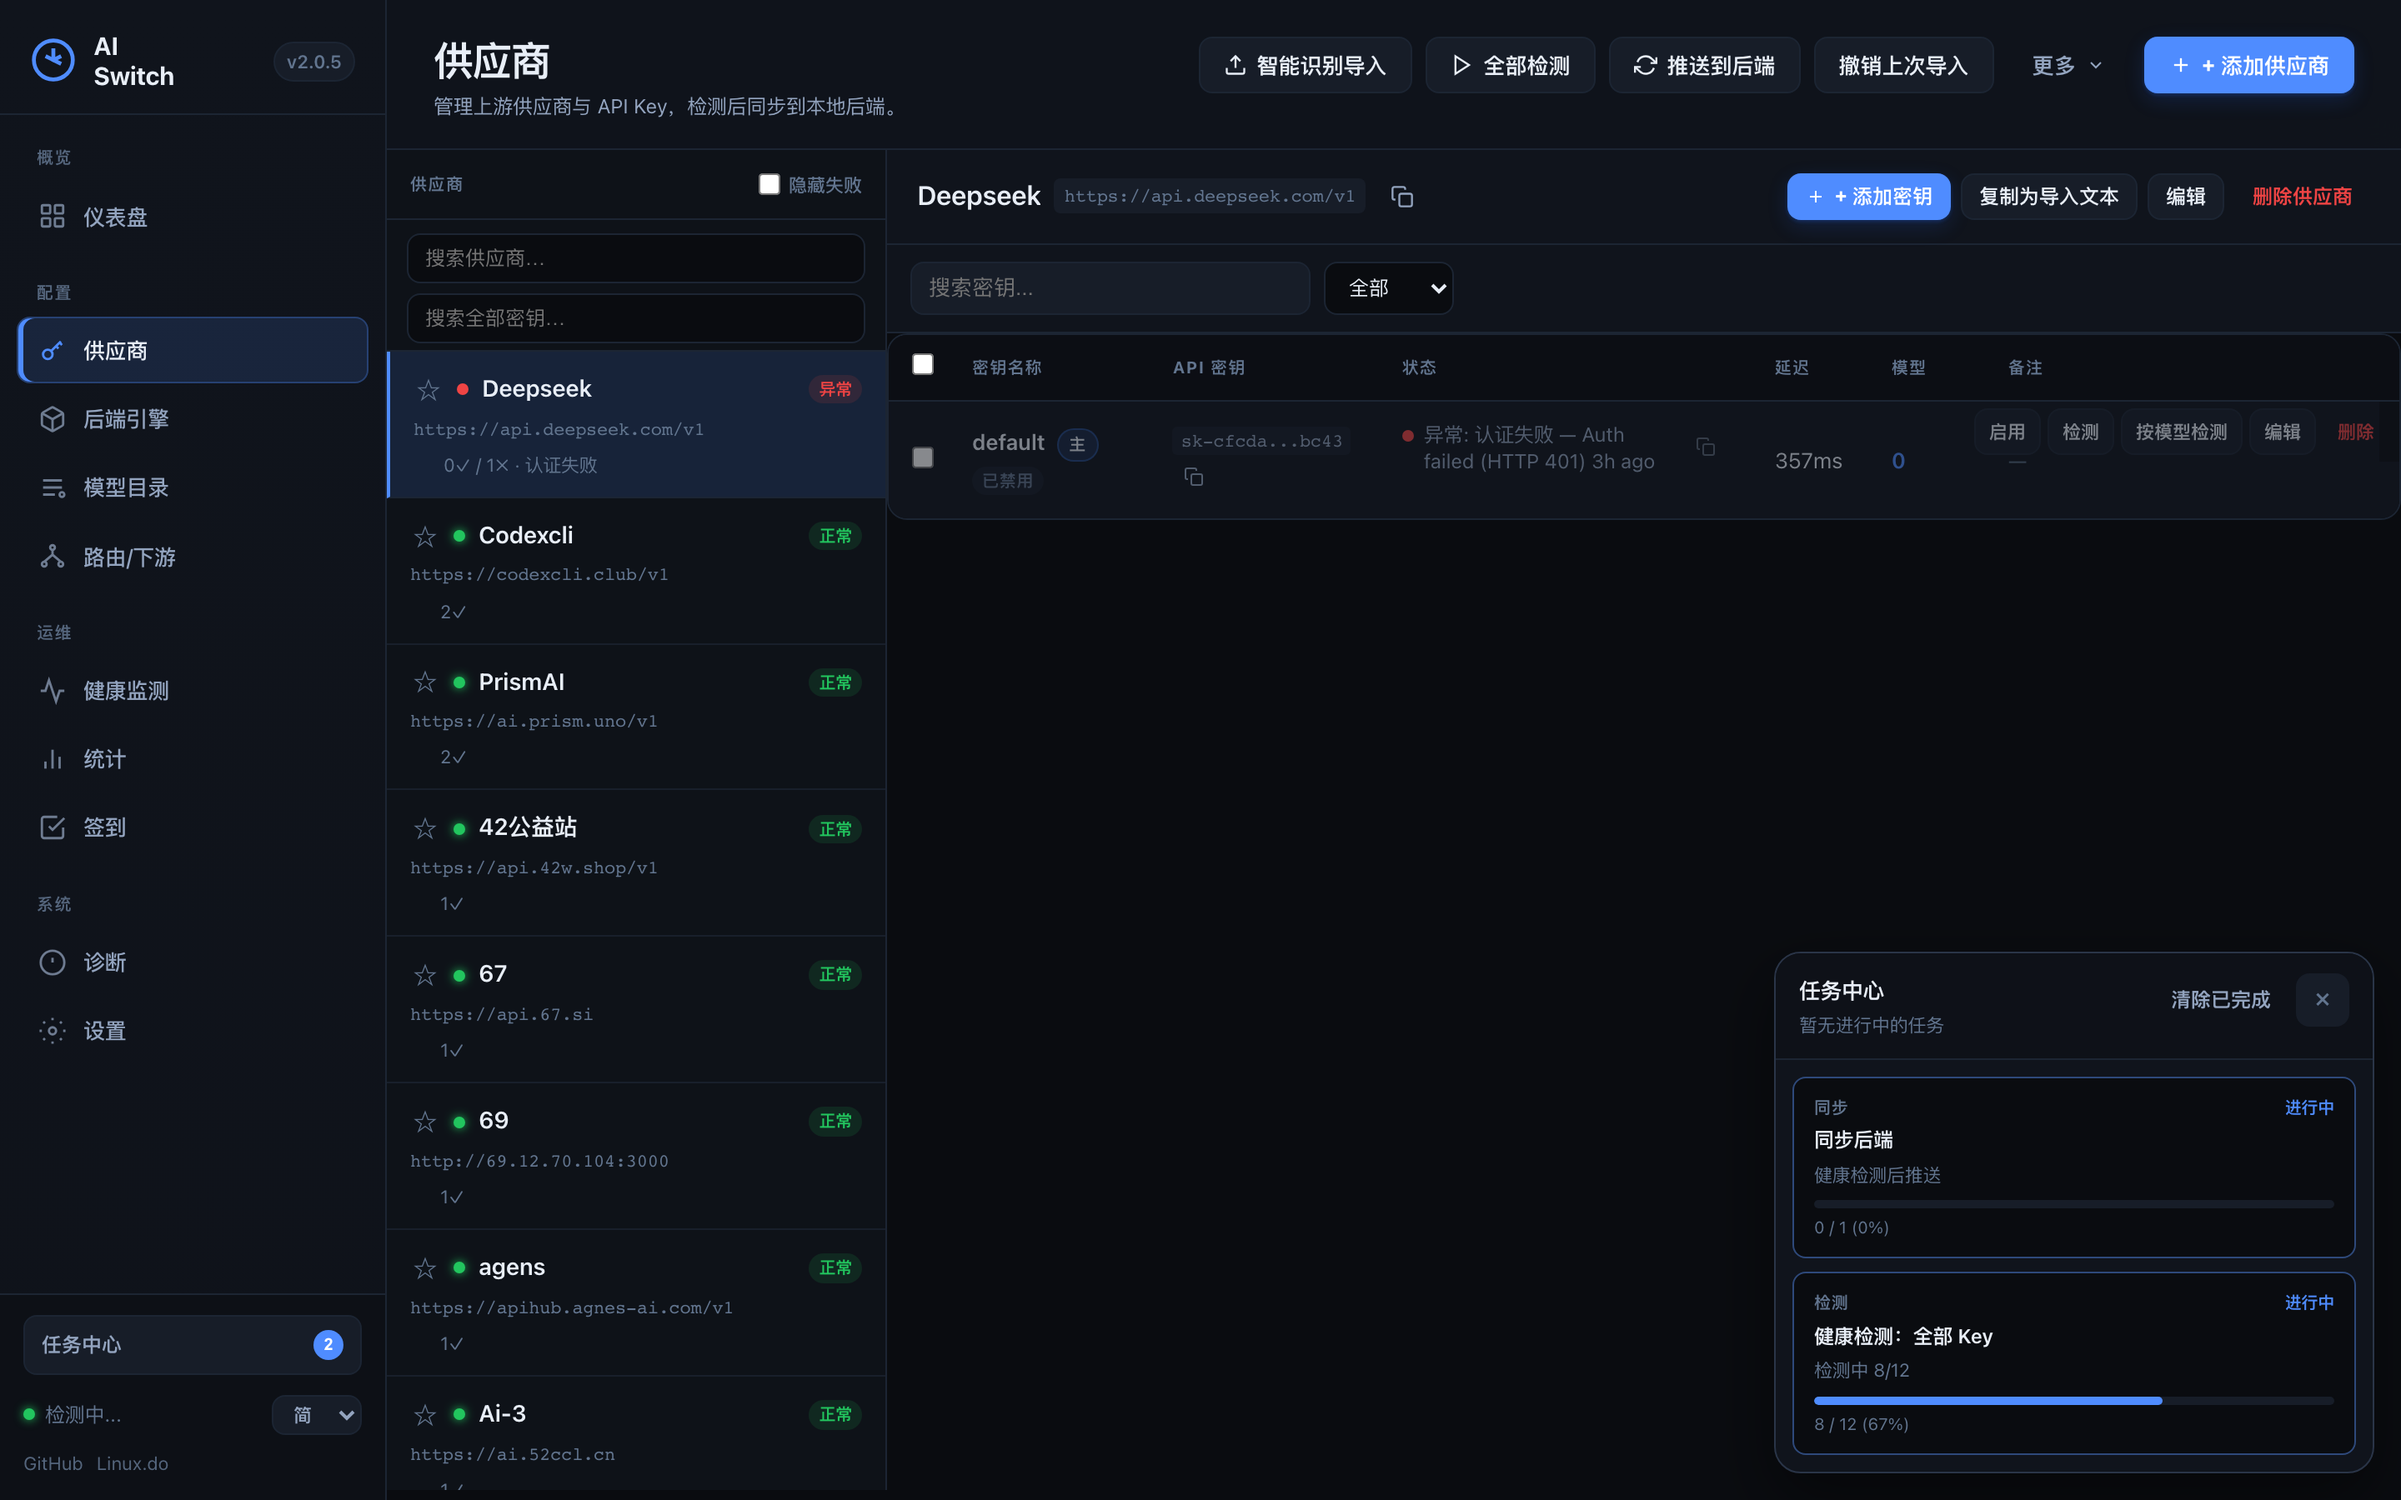
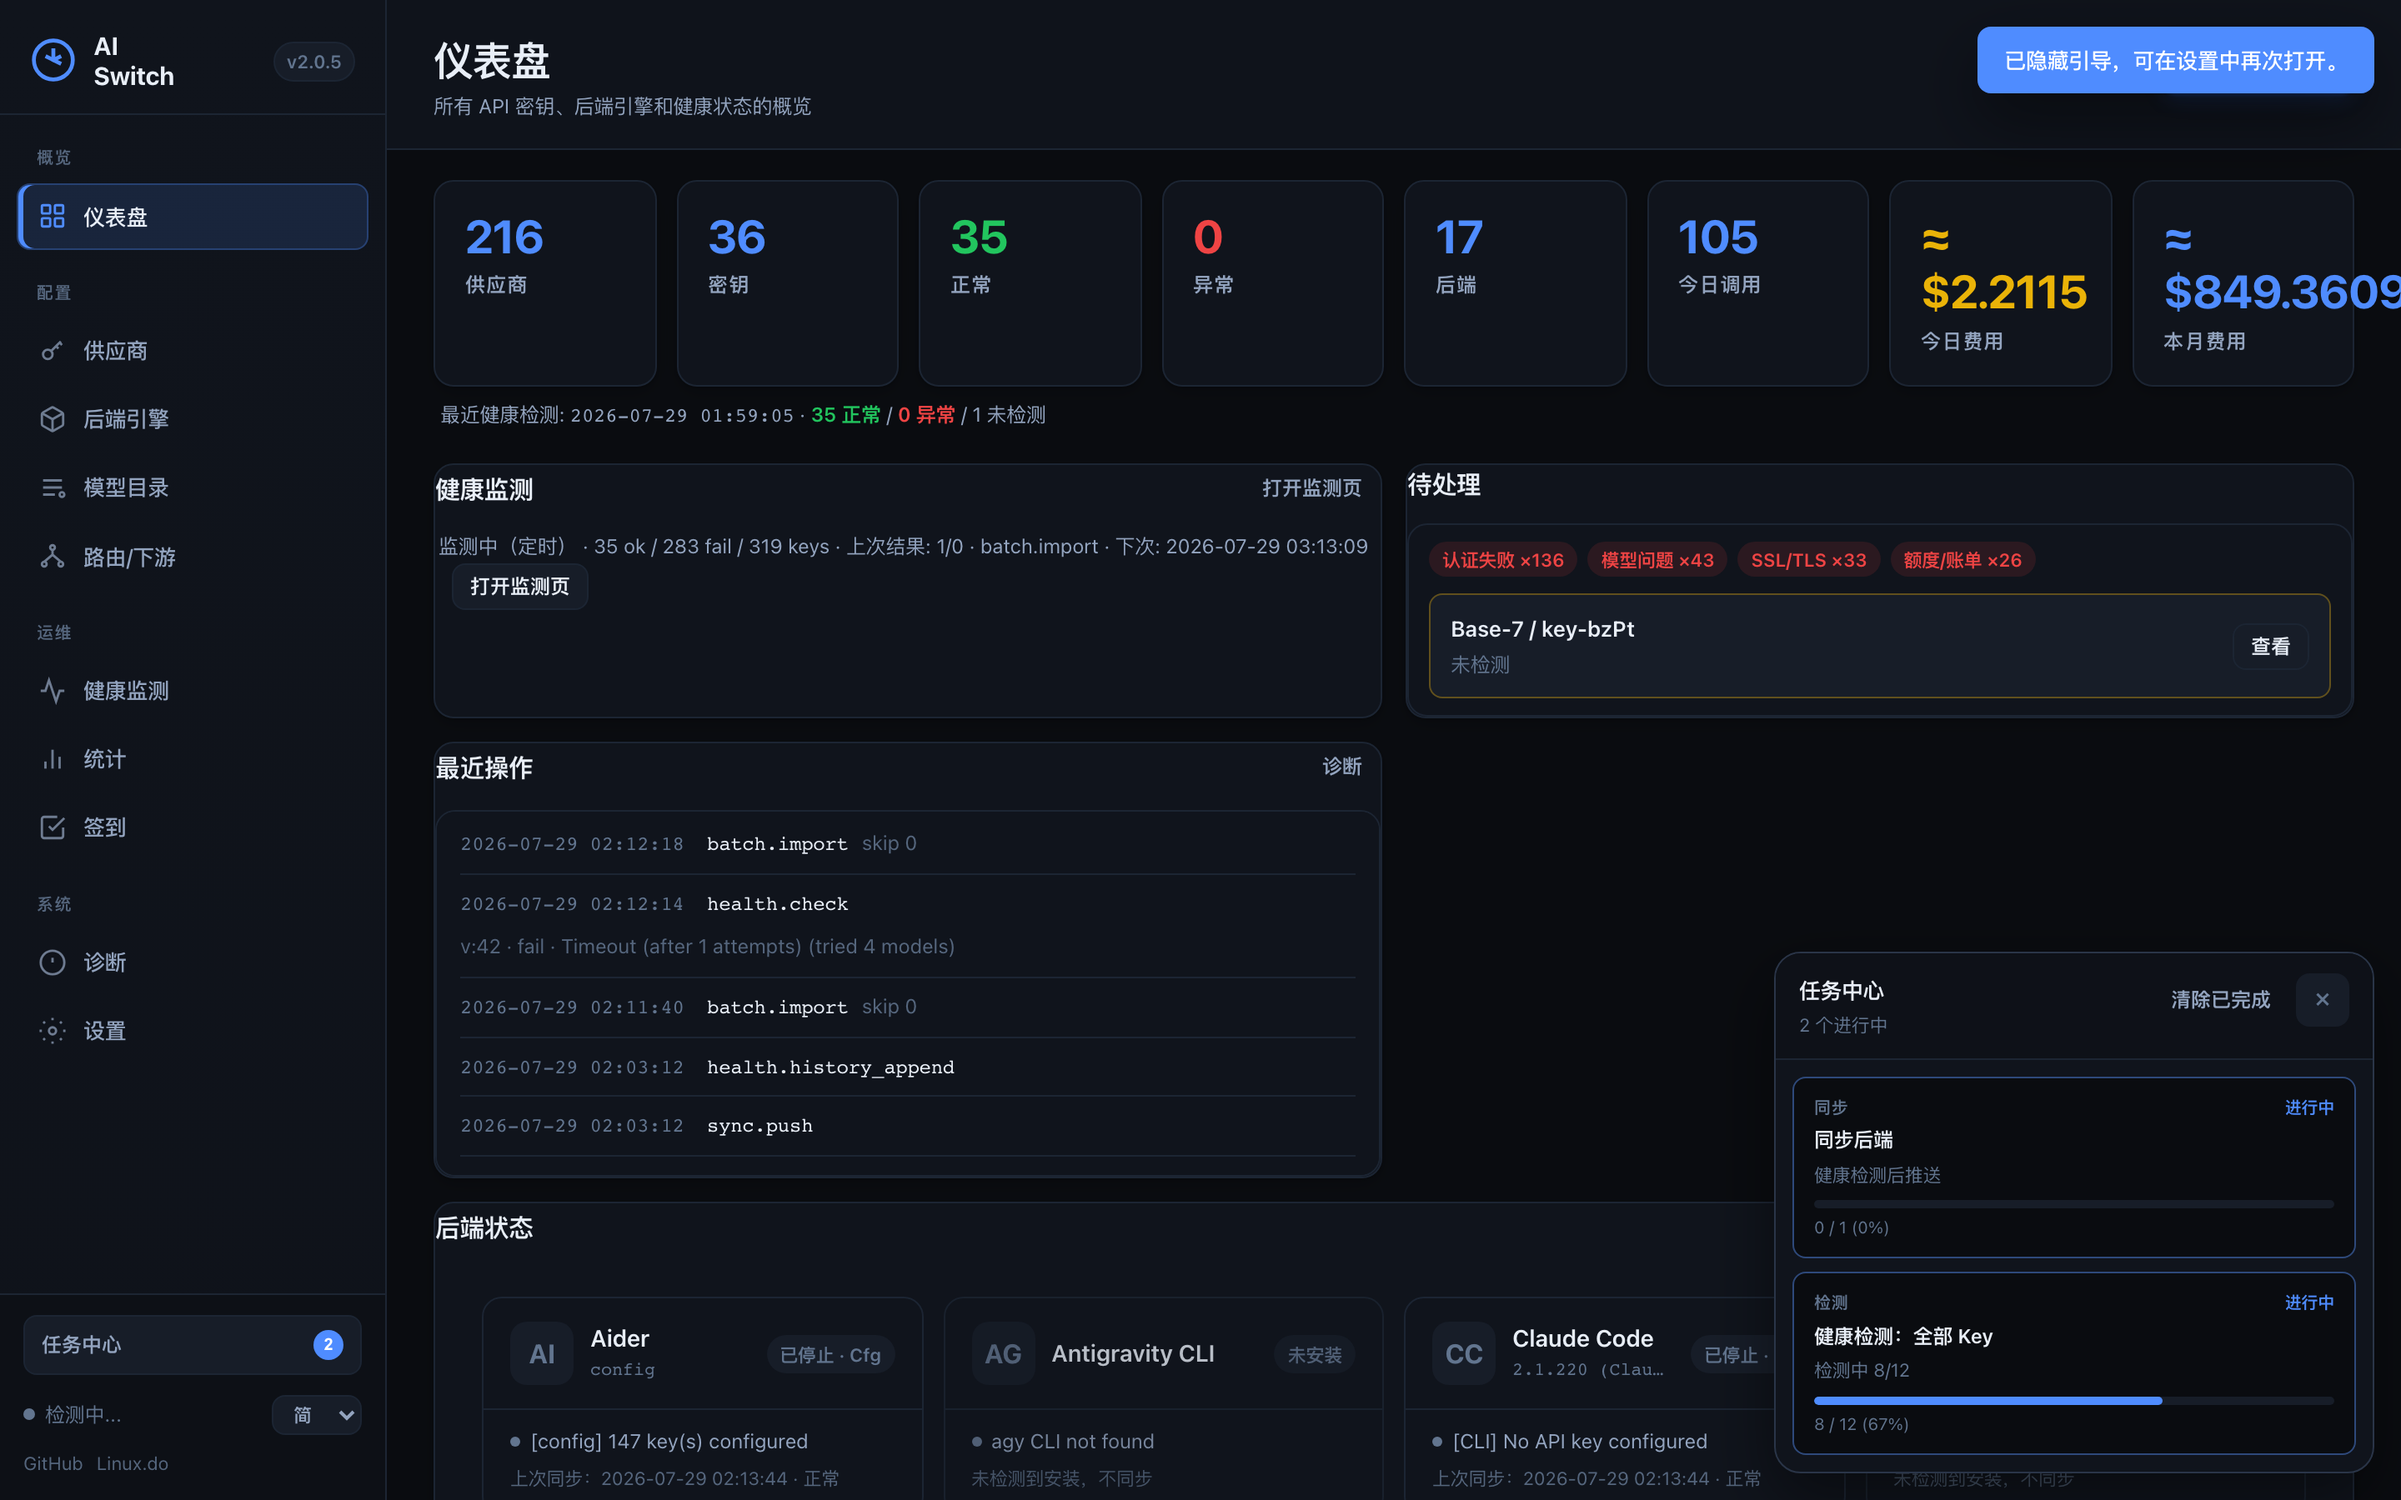
docs: remove vendors screenshot with sensitive API URLs
Drop 02-vendors from README galleries; re-capture task center on dashboard only.

diff --git a/README.md b/README.md
@@ -53,26 +53,22 @@ If you juggle **relay / multi-vendor API keys** across **OpenClaw, OpenCode, Cod
 </p>
 
 <p align="center">
-  <img src="docs/screenshots/02-vendors.png" alt="Vendors & keys" width="390">
-  &nbsp;
   <img src="docs/screenshots/03-backends.png" alt="Backends" width="390">
-</p>
-
-<p align="center">
-  <img src="docs/screenshots/04-health.png" alt="Health monitor" width="390">
   &nbsp;
-  <img src="docs/screenshots/05-task-center.png" alt="Task center" width="390">
+  <img src="docs/screenshots/04-health.png" alt="Health monitor" width="390">
 </p>
 
 <p align="center">
-  <img src="docs/screenshots/06-dashboard-dark.png" alt="Dark theme" width="800">
+  <img src="docs/screenshots/05-task-center.png" alt="Task center" width="390">
+  &nbsp;
+  <img src="docs/screenshots/06-dashboard-dark.png" alt="Dark theme" width="390">
 </p>
 
 | | |
 |--|--|
-| Dashboard | Keys & vendors |
-| Backends sync status | Health monitor |
-| Non-blocking task center | Light / dark theme |
+| Dashboard | Backends sync status |
+| Health monitor | Non-blocking task center |
+| Light / dark theme | |
 
 ---
 

diff --git a/README-zh_CN.md b/README-zh_CN.md
@@ -53,26 +53,22 @@
 </p>
 
 <p align="center">
-  <img src="docs/screenshots/02-vendors.png" alt="供应商与 Key" width="390">
-  &nbsp;
   <img src="docs/screenshots/03-backends.png" alt="后端" width="390">
-</p>
-
-<p align="center">
-  <img src="docs/screenshots/04-health.png" alt="健康监测" width="390">
   &nbsp;
-  <img src="docs/screenshots/05-task-center.png" alt="任务中心" width="390">
+  <img src="docs/screenshots/04-health.png" alt="健康监测" width="390">
 </p>
 
 <p align="center">
-  <img src="docs/screenshots/06-dashboard-dark.png" alt="深色主题" width="800">
+  <img src="docs/screenshots/05-task-center.png" alt="任务中心" width="390">
+  &nbsp;
+  <img src="docs/screenshots/06-dashboard-dark.png" alt="深色主题" width="390">
 </p>
 
 | | |
 |--|--|
-| 仪表盘总览 | 供应商 / Key 管理 |
-| 后端同步状态 | 健康监测 |
-| 不阻塞页面的任务中心 | 浅色 / 深色主题 |
+| 仪表盘总览 | 后端同步状态 |
+| 健康监测 | 不阻塞页面的任务中心 |
+| 浅色 / 深色主题 | |
 
 ---
 

diff --git a/README-zh_TW.md b/README-zh_TW.md
@@ -39,19 +39,15 @@
 </p>
 
 <p align="center">
-  <img src="docs/screenshots/02-vendors.png" alt="供應商與 Key" width="390">
-  &nbsp;
   <img src="docs/screenshots/03-backends.png" alt="後端" width="390">
-</p>
-
-<p align="center">
-  <img src="docs/screenshots/04-health.png" alt="健康監測" width="390">
   &nbsp;
-  <img src="docs/screenshots/05-task-center.png" alt="任務中心" width="390">
+  <img src="docs/screenshots/04-health.png" alt="健康監測" width="390">
 </p>
 
 <p align="center">
-  <img src="docs/screenshots/06-dashboard-dark.png" alt="深色主題" width="800">
+  <img src="docs/screenshots/05-task-center.png" alt="任務中心" width="390">
+  &nbsp;
+  <img src="docs/screenshots/06-dashboard-dark.png" alt="深色主題" width="390">
 </p>
 
 ## 三分鐘上手
